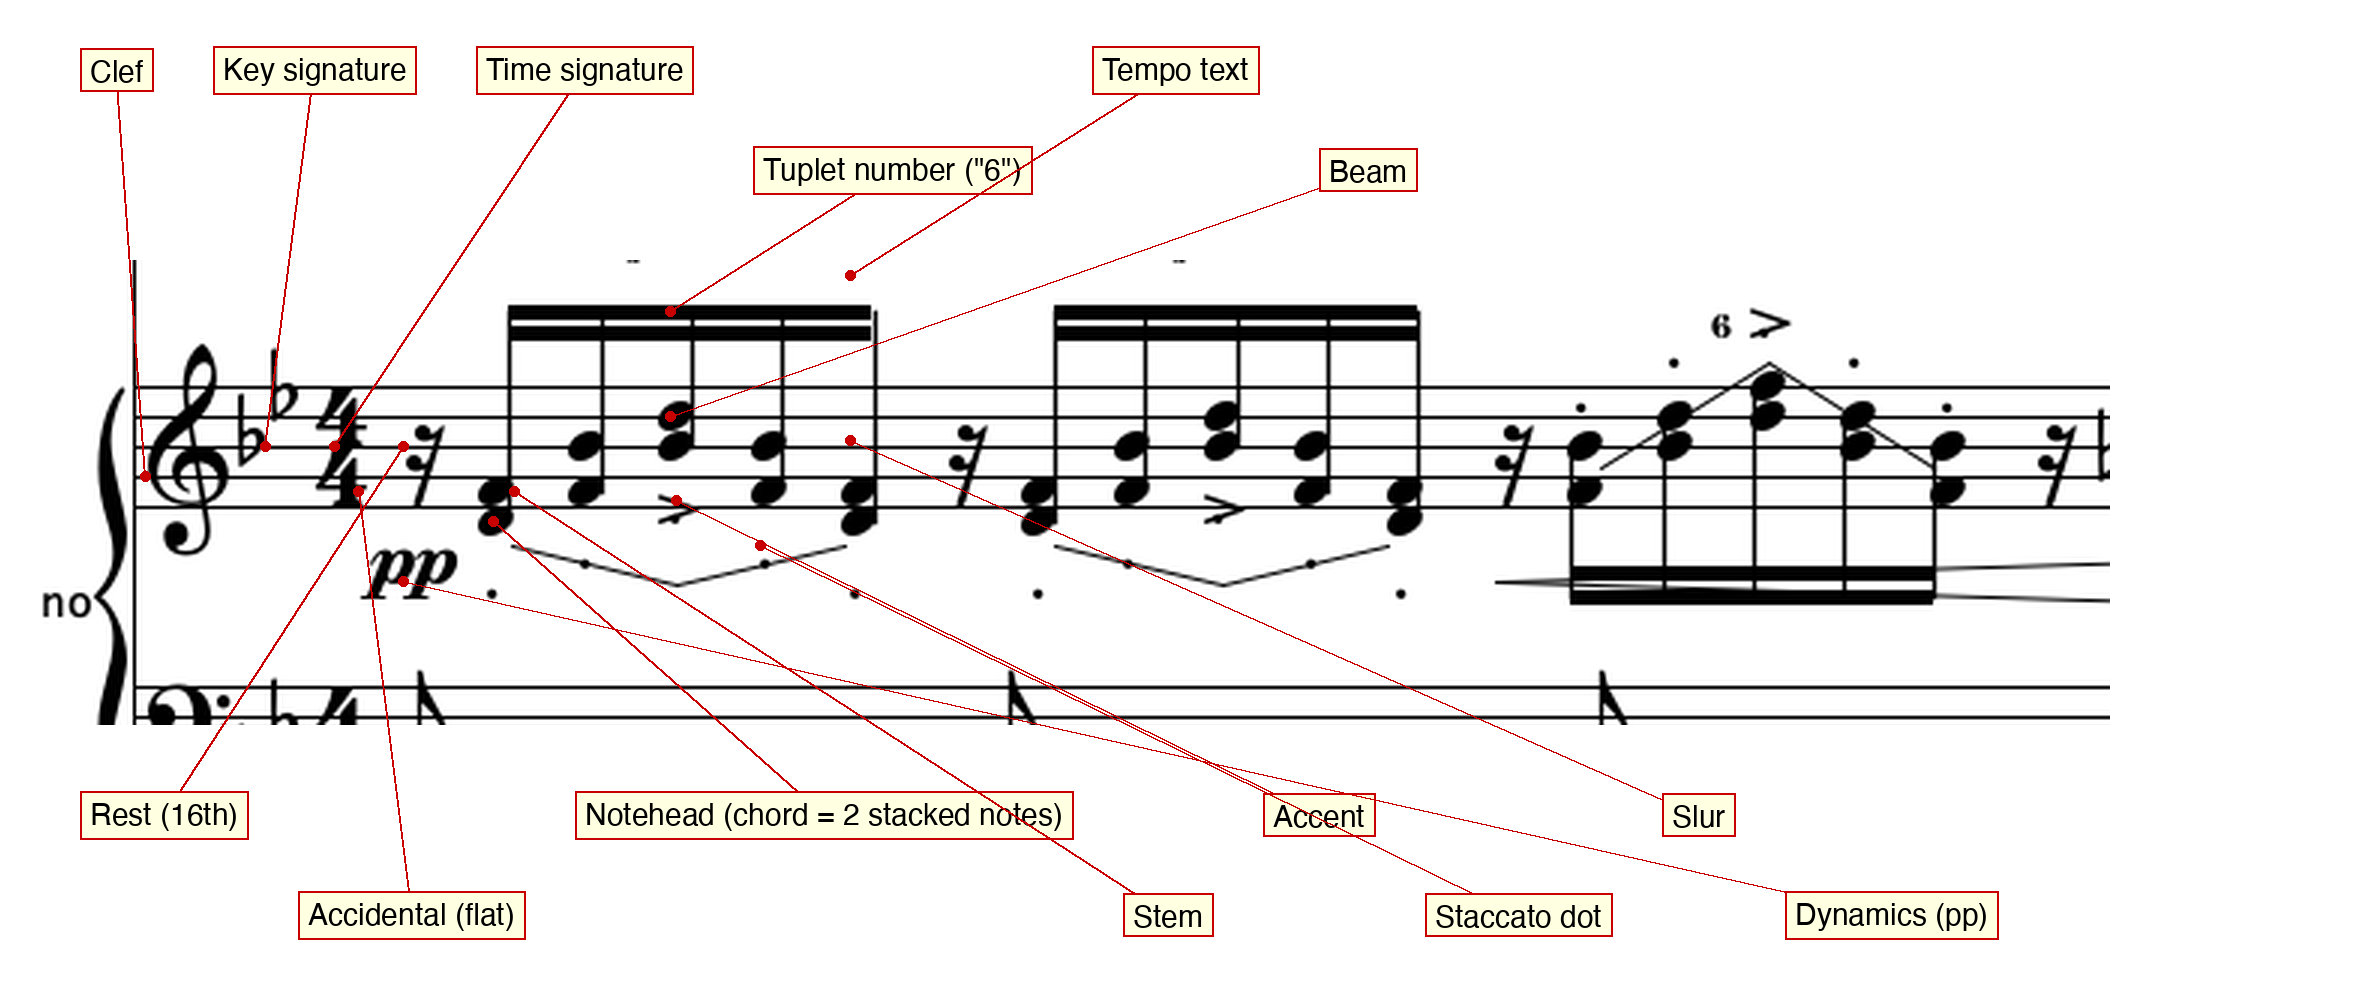
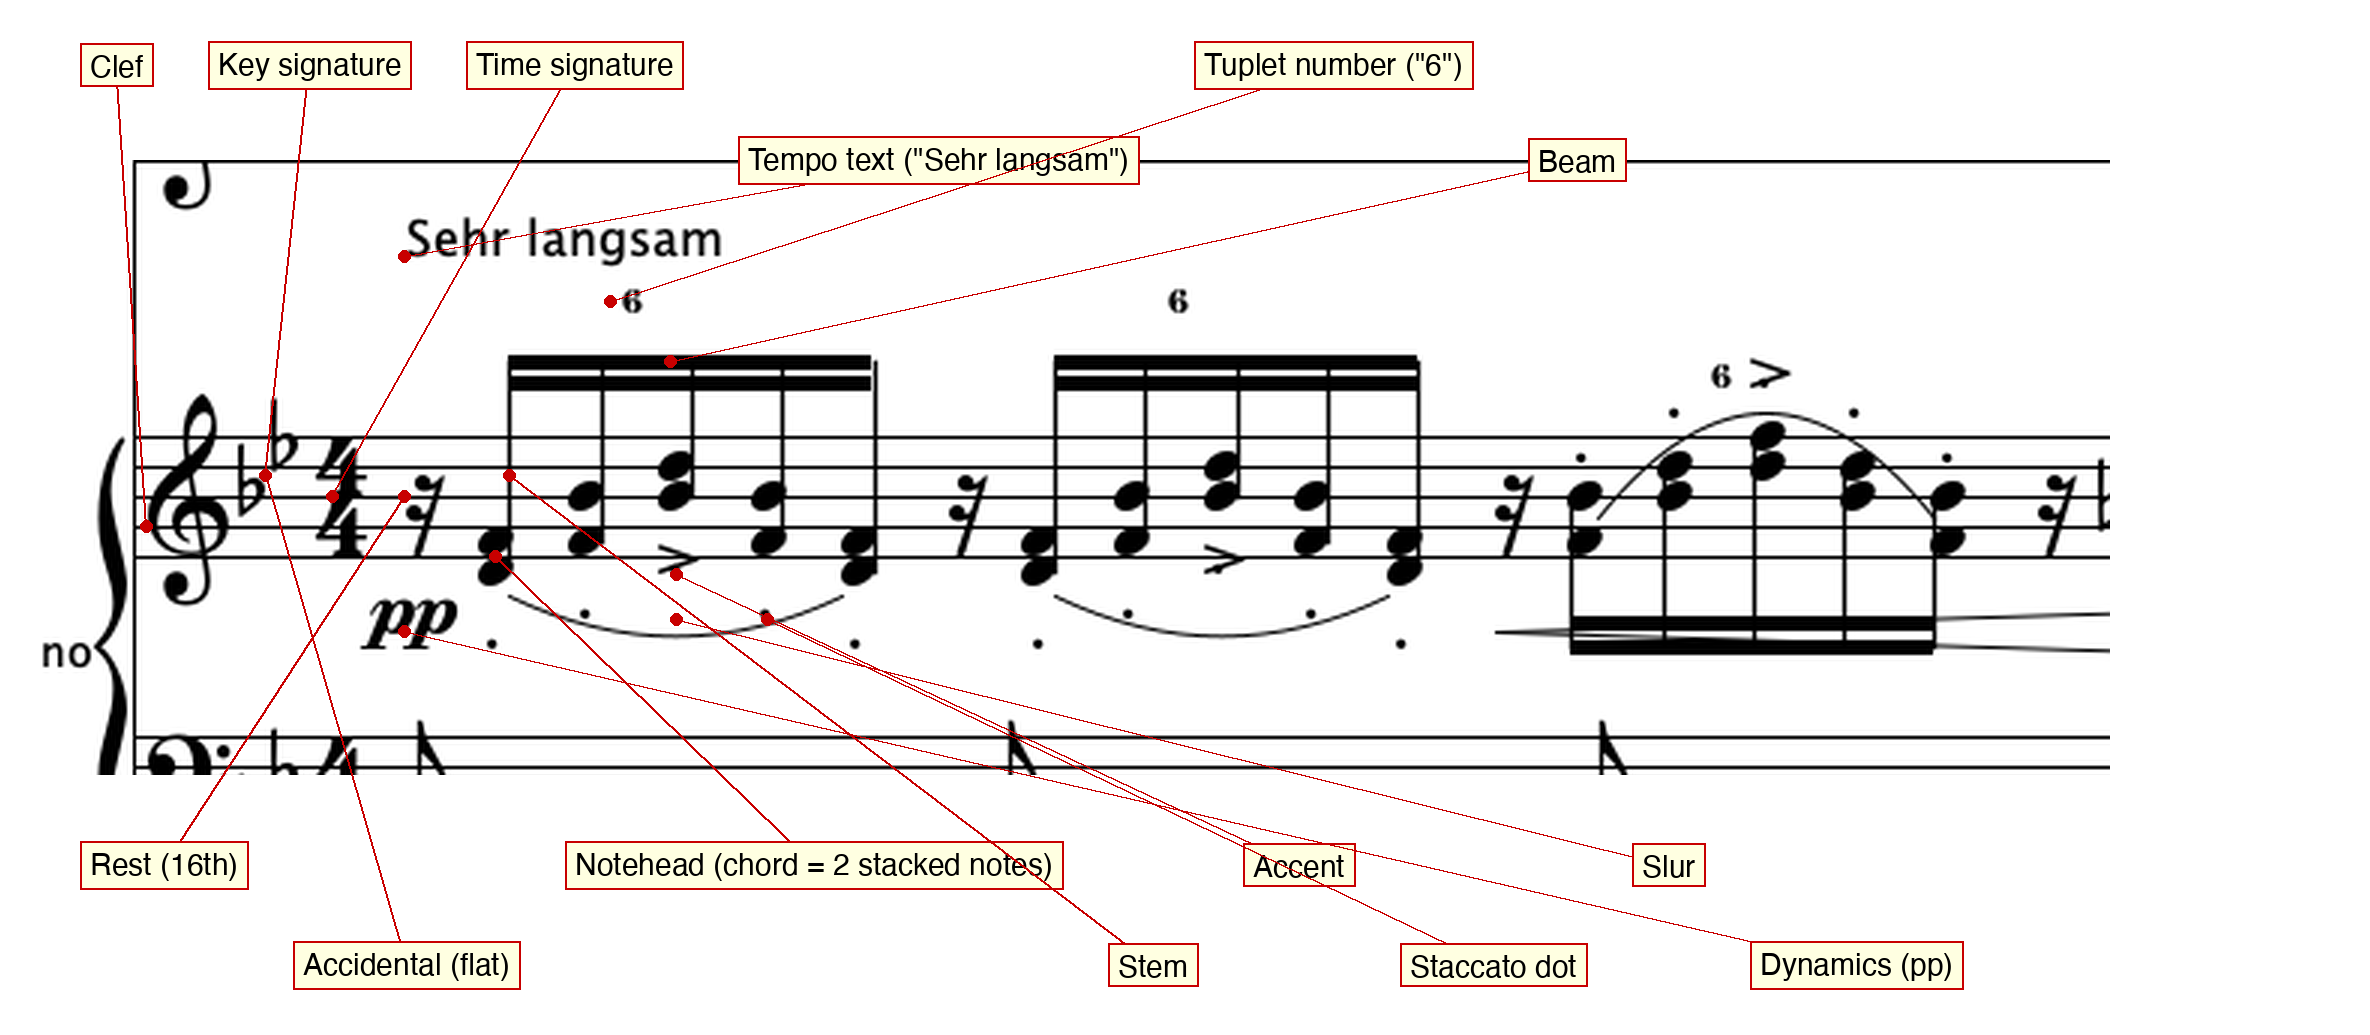
Improving FX output: smooth quadratic curve

diff --git a/fxviewer/src/main/java/com/sheetmusic4j/fxviewer/ScorePainter.java b/fxviewer/src/main/java/com/sheetmusic4j/fxviewer/ScorePainter.java
@@ -350,21 +350,37 @@ public final class ScorePainter {
      * dedicated surface primitive; the two-segment approximation is enough
      * for the diagnostic comparator's window-level similarity check.
      */
+    /**
+     * Strokes a smooth rounded arc from ({@code x1},{@code y1}) to
+     * ({@code x2},{@code y2}) whose apex reaches {@code peakY}, using a
+     * cubic curve with two inset control points so the shape stays an
+     * evenly rounded dome regardless of how deep the bend is relative to
+     * the horizontal span. A single-control-point quadratic curve gets
+     * visibly more "pointed" as that ratio grows (e.g. a slur clearing a
+     * melodic peak far above its two endpoints) - two independent control
+     * points avoid that.
+     */
+    private void strokeArc(RenderSurface surface, double x1, double y1, double x2, double y2, double peakY) {
+        double avgY = (y1 + y2) / 2.0;
+        // A cubic curve with both control points at the same y reaches 75%
+        // of the way from the endpoint average to that y at its own apex
+        // (t = 0.5); solve for the control y that lands the rendered apex
+        // exactly at peakY.
+        double controlY = (4 * peakY - avgY) / 3.0;
+        double c1x = x1 + (x2 - x1) * 0.25;
+        double c2x = x1 + (x2 - x1) * 0.75;
+        surface.strokeCubicCurve(x1, y1, c1x, controlY, c2x, controlY, x2, y2);
+    }
+
     private void drawTie(RenderSurface surface, StaffLayout staff, TiePlacement tie) {
         double gap = staff.lineGap();
         double bend = gap * 0.6 * (tie.curveUp() ? -1 : 1);
-        double midX = (tie.x1() + tie.x2()) / 2.0;
         double avgY = (tie.y1() + tie.y2()) / 2.0;
-        // A quadratic curve only reaches the midpoint of (control point,
-        // straight-line average) at its own apex - not the control point
-        // itself - so the control point must overshoot the intended visual
-        // peak by 2x for the rendered curve to actually reach it.
-        double controlY = avgY + 2 * bend;
-        surface.strokeQuadCurve(tie.x1(), tie.y1(), midX, controlY, tie.x2(), tie.y2());
+        strokeArc(surface, tie.x1(), tie.y1(), tie.x2(), tie.y2(), avgY + bend);
     }
 
     /**
-     * Draw a slur as a rounded arc (a real quadratic curve, not two straight
+     * Draw a slur as a rounded arc (a real cubic curve, not two straight
      * segments meeting at a point - that reads as an angular "^"/"V" rather
      * than a slur). Slurs typically span more horizontal distance than
      * ties, so the bend is proportional to the span rather than a flat
@@ -391,10 +407,7 @@ public final class ScorePainter {
             double defaultPeak = avgY + Math.max(gap * 1.3, span * 0.12);
             midY = Math.max(defaultPeak, slur.clearY() + clearance);
         }
-        // Same doubled-control-point trick as drawTie, so the curve's own
-        // apex - not the control point - lands at the computed midY.
-        double controlY = 2 * midY - avgY;
-        surface.strokeQuadCurve(slur.x1(), slur.y1(), midX, controlY, slur.x2(), slur.y2());
+        strokeArc(surface, slur.x1(), slur.y1(), slur.x2(), slur.y2(), midY);
     }
 
     /**

diff --git a/fxviewer/src/main/java/com/sheetmusic4j/fxviewer/RenderSurface.java b/fxviewer/src/main/java/com/sheetmusic4j/fxviewer/RenderSurface.java
@@ -105,4 +105,29 @@ public interface RenderSurface {
         strokeLine(x1, y1, cx, cy);
         strokeLine(cx, cy, x2, y2);
     }
+
+    /**
+     * Strokes a smooth cubic (2-control-point) curve from
+     * ({@code x1},{@code y1}) to ({@code x2},{@code y2}). Unlike
+     * {@link #strokeQuadCurve}, two independent control points keep the arc
+     * looking evenly rounded regardless of how deep it needs to bend - a
+     * single-control-point quadratic curve gets visibly more "pointed" as
+     * its bend-to-span ratio grows (e.g. a slur clearing a melodic peak far
+     * above its two endpoints), where a cubic curve stays a smooth dome.
+     * The default falls back to the quadratic approximation; backends with
+     * a native cubic Bezier primitive (JavaFX/AWT) override this.
+     *
+     * @param x1  start x
+     * @param y1  start y
+     * @param c1x first control point x
+     * @param c1y first control point y
+     * @param c2x second control point x
+     * @param c2y second control point y
+     * @param x2  end x
+     * @param y2  end y
+     */
+    default void strokeCubicCurve(double x1, double y1, double c1x, double c1y,
+                                  double c2x, double c2y, double x2, double y2) {
+        strokeQuadCurve(x1, y1, (c1x + c2x) / 2.0, (c1y + c2y) / 2.0, x2, y2);
+    }
 }

diff --git a/fxdemo/src/main/java/com/sheetmusic4j/fxdemo/AwtRenderSurface.java b/fxdemo/src/main/java/com/sheetmusic4j/fxdemo/AwtRenderSurface.java
@@ -94,6 +94,13 @@ public final class AwtRenderSurface implements RenderSurface {
     }
 
     @Override
+    public void strokeCubicCurve(double x1, double y1, double c1x, double c1y,
+                                 double c2x, double c2y, double x2, double y2) {
+        g.setColor(stroke);
+        g.draw(new java.awt.geom.CubicCurve2D.Double(x1, y1, c1x, c1y, c2x, c2y, x2, y2));
+    }
+
+    @Override
     public void strokeText(String text, double x, double y) {
         g.setColor(stroke);
         g.drawString(text, (float) x, (float) y);

diff --git a/fxviewer/src/main/java/com/sheetmusic4j/fxviewer/FxRenderSurface.java b/fxviewer/src/main/java/com/sheetmusic4j/fxviewer/FxRenderSurface.java
@@ -79,6 +79,15 @@ public final class FxRenderSurface implements RenderSurface {
     }
 
     @Override
+    public void strokeCubicCurve(double x1, double y1, double c1x, double c1y,
+                                 double c2x, double c2y, double x2, double y2) {
+        gc.beginPath();
+        gc.moveTo(x1, y1);
+        gc.bezierCurveTo(c1x, c1y, c2x, c2y, x2, y2);
+        gc.stroke();
+    }
+
+    @Override
     public void strokeText(String text, double x, double y) {
         gc.strokeText(text, x, y);
     }
